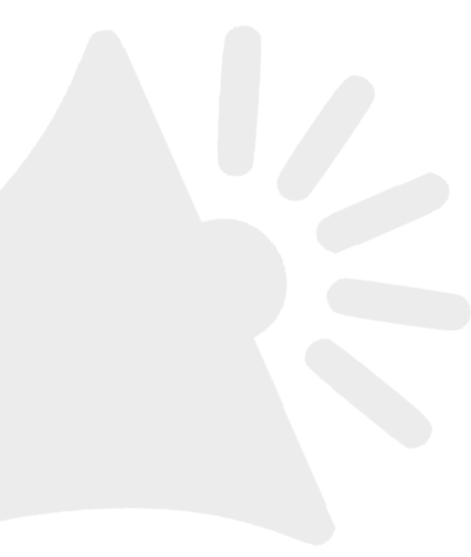
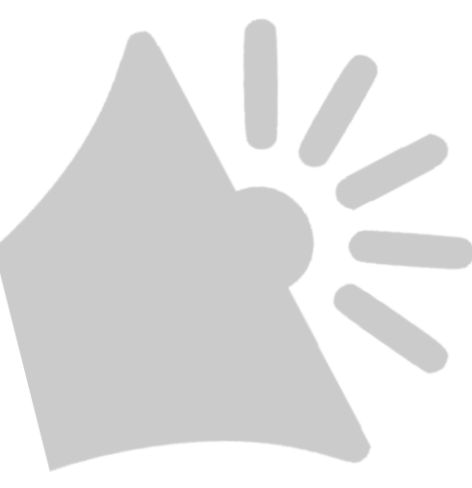
Fixed megaphone on landing page

diff --git a/public/styles/landing-page.css b/public/styles/landing-page.css
@@ -102,7 +102,9 @@ button {
 .bottom-logo{
     position: relative;
     display: flex;
-    bottom: 550px;
+    bottom: 560px;
+    right: 50px;
+    height: 550px;
 }
 
 .topic__1{
